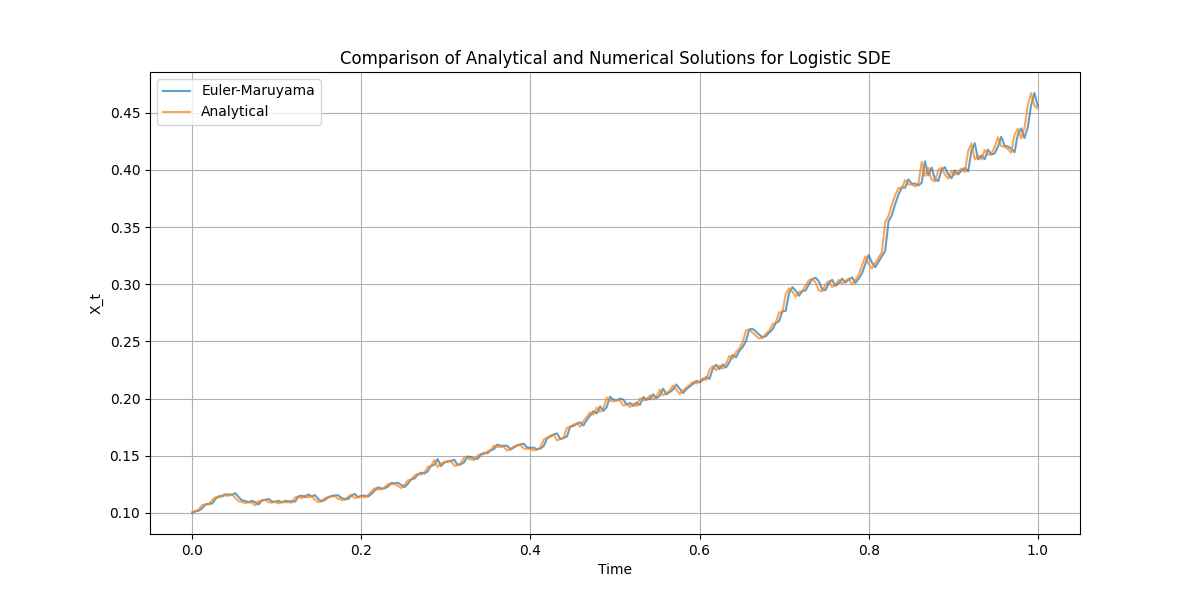
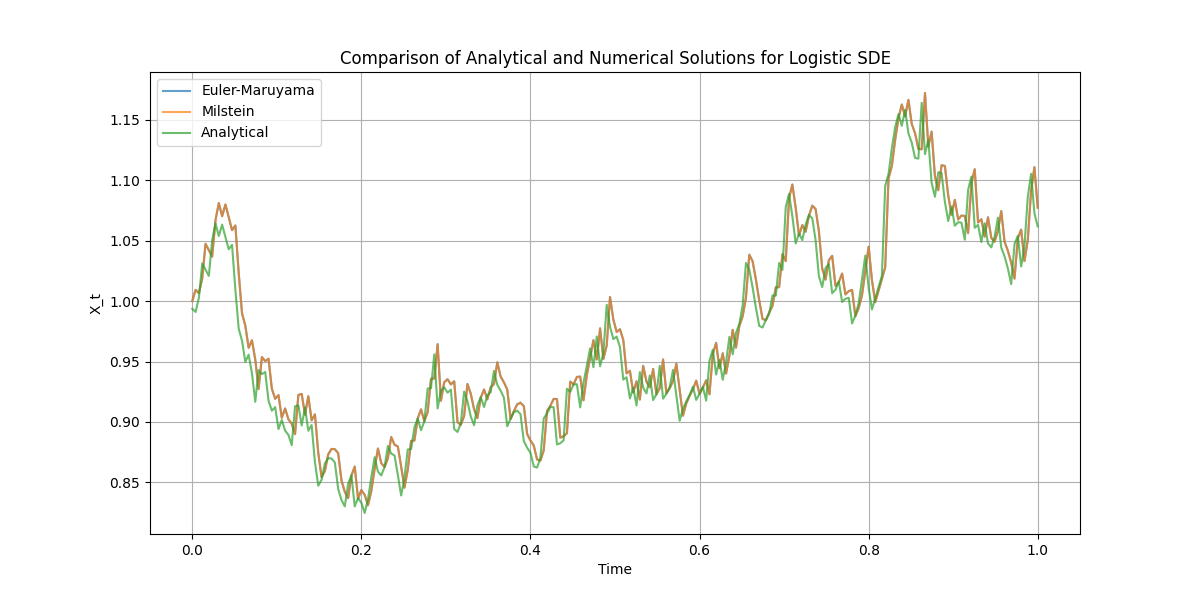
Upd

diff --git a/logistic.py b/logistic.py
@@ -1,16 +1,6 @@
 import numpy as np
 import matplotlib.pyplot as plt
 
-# Analytical deterministic solution
-def logistic_deterministic(X0, t, r, K):
-    return K * X0 * np.exp(r * t) / (K + X0 * (np.exp(r * t) - 1))
-
-# Analytical reference (semi-analytical solution)
-def logistic_analytical(X0, t, r, K, sigma, W):
-    X_det = logistic_deterministic(X0, t, r, K)  # Deterministic part
-    stochastic_term = sigma * np.exp(-r * t / 2) * W  # Approx stochastic correction
-    return X_det + stochastic_term
-
 
 def logistic_sde_solution(t, X0, r, K, sigma, dt, W):
     # Discretize time
@@ -21,8 +11,9 @@ def logistic_sde_solution(t, X0, r, K, sigma, dt, W):
     exp_term = np.exp((r - sigma**2 / 2) * times + sigma * W)
     integral_term = np.cumsum(exp_term * dt)  # Integral approximation using Riemann sum
     Xt = exp_term / (X0**-1 + (r / K) * integral_term)
-    
+
     return Xt
+
 
 # Euler-Maruyama Method
 def euler_maruyama(X0, dW, dt):
@@ -33,6 +24,7 @@ def euler_maruyama(X0, dW, dt):
         diffusion = sigma * X[i - 1] * dW[i - 1]
         X[i] = X[i - 1] + drift + diffusion
     return X
+
 
 # Milstein Method
 def milstein(X0, dW, dt):
@@ -47,14 +39,15 @@ def milstein(X0, dW, dt):
         X[i] = X[i - 1] + drift + diffusion + diffusion_correction
     return X
 
+
 if __name__ == "__main__":
     np.random.seed(42)
 
     # Parameters
-    r = 2.0  # Growth rate
+    r = 4.0  # Growth rate
     K = 1.0  # Carrying capacity
     sigma = 0.3  # Volatility
-    X0 = 0.1  # Initial value
+    X0 = 1  # Initial value
     T = 1  # Total time
     N = 2**8  # Number of steps
     dt = T / N  # Time step
@@ -65,16 +58,15 @@ if __name__ == "__main__":
     W = np.cumsum(dW)  # Cumulative Brownian motion
 
     # Simulate with all methods
-    X_ref = logistic_analytical(X0, t, r, K, sigma, W)
     X_em = euler_maruyama(X0, dW, dt)
-    # X_milstein = milstein(X0, dW, dt)
-    X_milstein = logistic_sde_solution(t, X0, r, K, sigma, dt, W)
+    X_milstein = milstein(X0, dW, dt)
+    X_analytical = logistic_sde_solution(t, X0, r, K, sigma, dt, W)
 
     # Plot results
     plt.figure(figsize=(12, 6))
-    # plt.plot(t, X_ref, label="Reference (Analytical)", linestyle="--", linewidth=2)
     plt.plot(t, X_em, label="Euler-Maruyama", alpha=0.7)
-    plt.plot(t, X_milstein, label="Analytical", alpha=0.7)
+    plt.plot(t, X_milstein, label="Milstein", alpha=0.7)
+    plt.plot(t, X_analytical, label="Analytical", alpha=0.7)
     plt.title("Comparison of Analytical and Numerical Solutions for Logistic SDE")
     plt.xlabel("Time")
     plt.ylabel("X_t")
